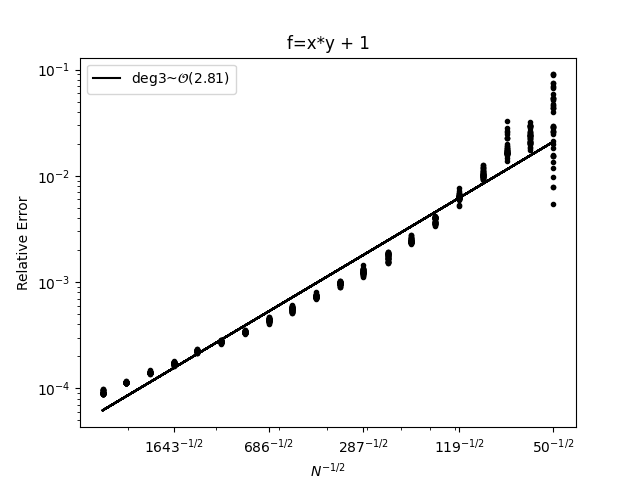
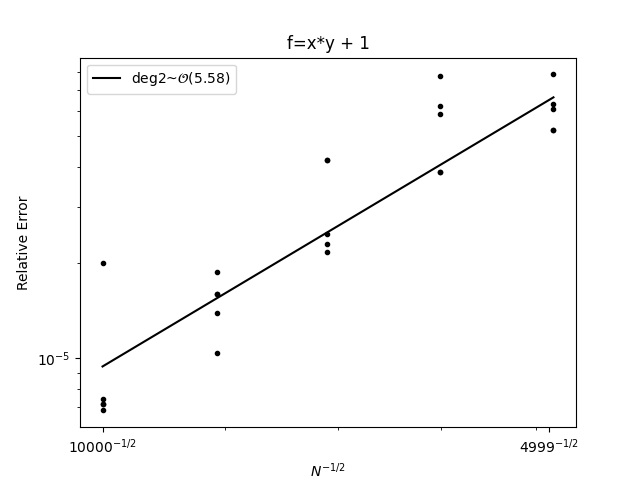
torus convergence working

diff --git a/drivers/surface/torus_test1.py b/drivers/surface/torus_test1.py
@@ -8,6 +8,7 @@ import sympy as sym
 from sympy.abc import x, y, z
 from tqdm import tqdm
 from min_energy_points import TorusPoints, LocalSurfaceVoronoi
+from min_energy_points.torus import SpiralTorus
 
 from rbf.rbf import RBF, PHS
 from rbf.surface import TriMesh, SurfaceQuad
@@ -61,12 +62,16 @@ quad_tqdm_args = {
 }
 
 rbf = PHS(3)
-stencil_size = 18
-poly_deg = 1
+stencil_size = 12
+poly_deg = 2
 
 repeats = 1
-# Ns = np.logspace(3.4, 3.5, 2, dtype=int)
-Ns = [2_000, 4_000]
+Ns = np.logspace(
+    np.log10(5_000),
+    np.log10(10_000),
+    5,
+    dtype=int,
+)
 
 # repeats = 1
 # Ns = np.logspace(2, 2.5, 3, dtype=int)
@@ -74,10 +79,24 @@ Ns = [2_000, 4_000]
 results = []
 for trial in (tqdm_obj := tqdm(range(repeats), position=1, leave=True)):
     for N in tqdm(Ns[::-1], position=2, leave=False):
-        torus = TorusPoints(N, R=R, r=r)
+        # torus = TorusPoints(N, R=R, r=r)
+        # vor_max_neighbors = 30
+        torus = SpiralTorus(N, R=R, r=r)
+        torus.all_points += (np.random.random(torus.all_points.shape) - 0.5) * torus.h
+        torus.settle(rate=1.0, repeat=10)
+        vor_max_neighbors = 15
+        N = torus.N
         points = torus.points
-        vor = LocalSurfaceVoronoi(torus.points, torus.normals, torus.implicit_surf)
-        trimesh = TriMesh(points, vor.triangles, normals=vor.normals)
+        valid_surface = False
+        if not valid_surface:
+            vor = LocalSurfaceVoronoi(
+                torus.points,
+                torus.normals,
+                torus.implicit_surf,
+                max_neighbors=vor_max_neighbors,
+            )
+            trimesh = TriMesh(points, vor.triangles, normals=vor.normals)
+            valid_surface = trimesh.is_valid()
 
         quad = SurfaceQuad(
             trimesh=trimesh,

diff --git a/drivers/surface/torus_debug.py b/drivers/surface/torus_debug.py
@@ -51,11 +51,23 @@ poly_deg = 1
 
 N = 3_000
 
-np.random.seed(0)
+np.random.seed(1)
 torus = TorusPoints(N, R=R, r=r)
 points = torus.points
 vor = LocalSurfaceVoronoi(torus.points, torus.normals, torus.implicit_surf)
 trimesh = TriMesh(points, vor.triangles, normals=vor.normals)
+
+if False:
+    surf = pv.PolyData(points, [(3, *f) for f in vor.triangles])
+    plotter = pv.Plotter(off_screen=False)
+    plotter.add_mesh(
+        surf,
+        show_vertices=True,
+        show_edges=True,
+        show_scalar_bar=False,
+    )
+    plotter.set_focus(points[413])
+    plotter.show()
 
 quad = SurfaceQuad(
     trimesh=trimesh,
@@ -69,7 +81,9 @@ quad = SurfaceQuad(
 for test_func in test_functions:
     approx = quad.weights @ test_func(points)
     error = abs(approx - exact) / exact
-    print(f"{error=:.4g}")
+    print(f"{error=:.4E}")
+
+plt.hist(quad.weights, bins=100)
 
 print(f"max weight = {np.max(quad.weights)}")
 index = np.argmax(np.abs(quad.weights))
